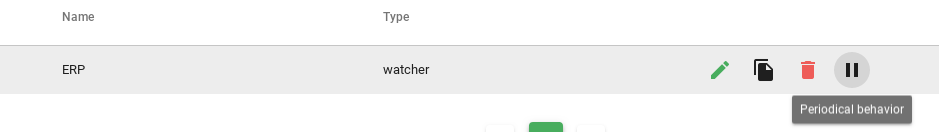
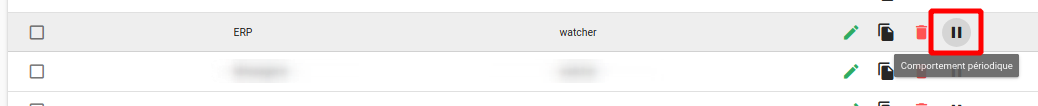
Mise à jour de la doc cas d'usage

diff --git a/sources/docs/fr/guide-utilisation/cas-d-usage/comportements_periodiques.md b/sources/docs/fr/guide-utilisation/cas-d-usage/comportements_periodiques.md
@@ -1,22 +1,24 @@
 # Comportements périodiques
 
-Vous avez la possibilité dans Canopsis de définir des périodes de temps pendant lesquelles des changements de comportements sont nécessaires :
+Vous avez la possibilité, dans Canopsis, de définir des périodes pendant lesquelles des changements de comportements sont nécessaires :
 
 * Plage de service d'une application : vous souhaitez repérer visuellement les applications qui doivent rendre un service à un moment donné.
 * Maintenance : vous souhaitez déclarer en maintenance des entités pour que leurs alarmes ne remontent pas visuellement.
 * Pause : vous souhaitez mettre en *pause* une application pour un temps indéterminé.
 
-Cette fonctionnalité porte le nom de « Comportement périodique ».
+Pour cela vous allez utiliser des comportements périodiques (ou *pbehaviors*, pour *periodical behaviors*).
 
-!!! note
-    Voici une méthode vous permettant de :
+!!! Note
+    Avec la v4 de Canopsis le fonctionnement des comportements périodiques à été complètement revu.
+    Les informations qui figurent sur cette page ne sont donc valables que pour cette version.
 
-    * définir la plage de service d'une application
-    * mettre en maintenance une entité
+Les cas d'usage détaillés dans cette documentation vous permettront de :
+* Définir la plage de service d'une application
+* Mettre en maintenance une entité
 
-### Contexte
+## Contexte
 
-Nous considérons l'application `ERP` (sous forme d'observateur) composée de différentes entités.
+Considérons l'application `ERP` (sous forme d'observateur) composée de différentes entités.
 
 ![Situation initiale](./img/pbh_situation_initiale.png "Situation initiale")
 
@@ -24,12 +26,15 @@ Nous considérons l'application `ERP` (sous forme d'observateur) composée de di
 
 ### Définition de la plage de service
 
-Dans l'explorateur de contexte, vous recherchez votre observateur ERP.  
-Vous ajoutez un comportement périodique ![Action comportement periodique](./img/pbh_action.png "Action comportement périodique")  
+Rendez-vous dans l'explorateur de contexte et recherchez votre observateur `ERP`.
 
-Pour fabriquer une plage 5 jours/7 de 8h à 19h15, vous devez créer :
+Ajoutez lui ensuite un comportement périodique en cliquant sur ce bouton.
 
-* Une plage récurrente de 19h15 à 00h
+![Action comportement periodique](./img/pbh_action.png "Action comportement périodique")
+
+Pour créer une plage, du lundi au vendredi, de 19h15 à 8h, vous devez :
+
+* Sélectionner sur le calendrier, le premier jour de la première occurrence de votre plage.
 
 ![Plage 19h15-00h](./img/pbh_plage_19h15-00h.png "Plage 19h15-00h")  
 
@@ -60,8 +65,6 @@ Dans les 2 premiers cas un filtre sera généré automatiquement lors de la cré
 Pour cela, rendez-vous dans le menu Exploitation puis dans Comportements périodiques et ajoutez un comportement avec un filtre qui sélectionne les entités de *ERP*.
 
 ![Ajout comportement](./img/pbh_ajout_comportement.png "Ajout comportement")
-
-A partir de la v4 de Canopsis l'ajout d'un comportement se fait par le biais d'un calendrier.
 
 Sélectionnez une date ou un intervalle de temps pendant lequel vous souhaitez que le comportement périodique soit actif. Vous pouvez sélectionner plusieurs dates en maintenant le bouton de la souris enfoncé et en la faisant glisser depuis la date de début jusqu'à la date de fin. Lorsque vous relâchez le bouton de la souris la fenêtre de création s'affiche.
 
